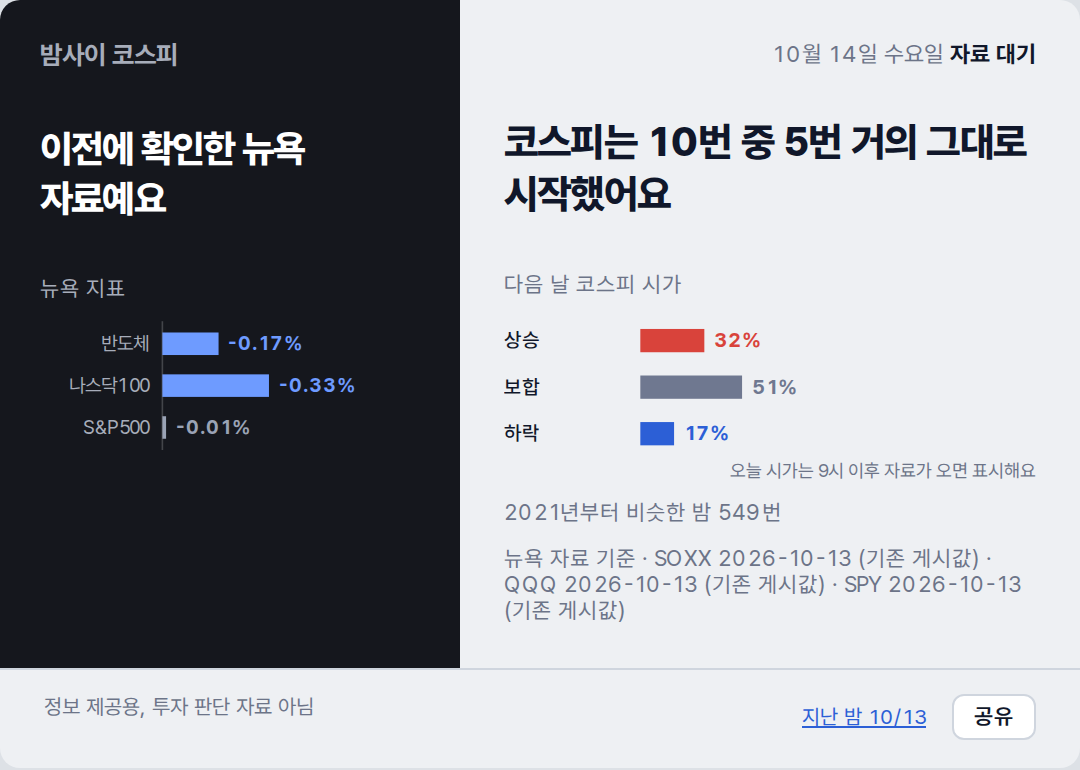
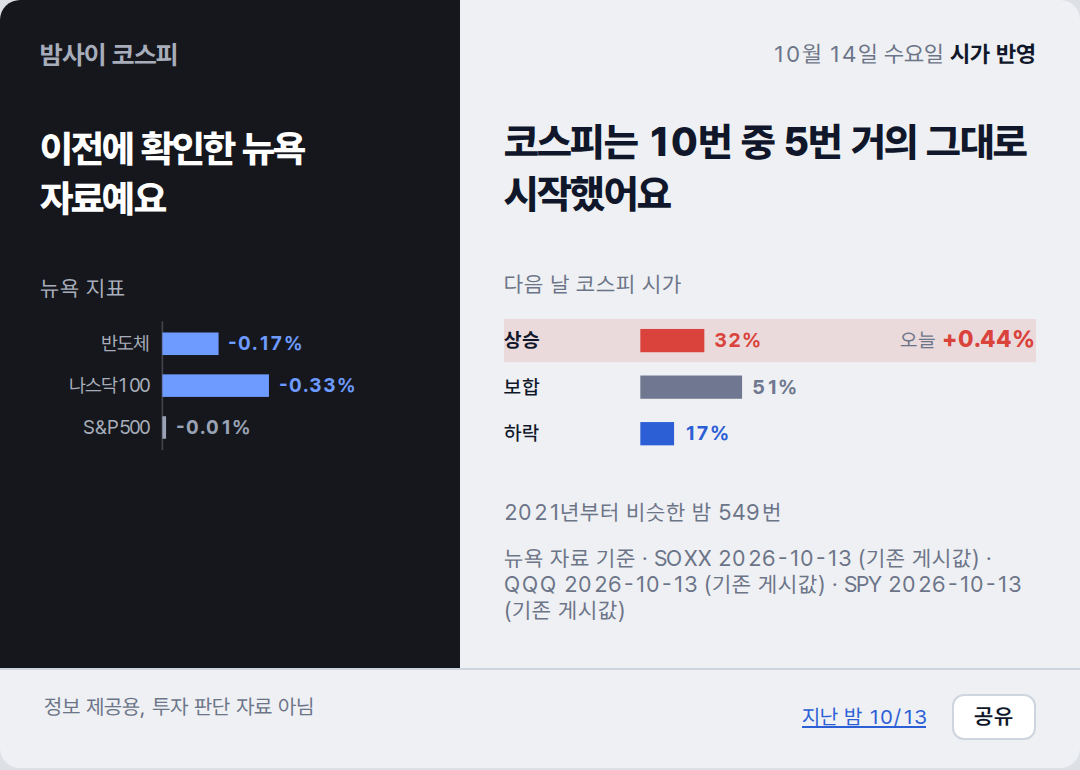
deploy: c0d07a214321b41f7cf333fef670b17ffe5b5852

diff --git a/2026-10-14/index.html b/2026-10-14/index.html
@@ -38,17 +38,18 @@ footer a{color:#2C5FD6}
 <rect x="76" y="61" width="2.3" height="14" fill="var(--flat)"/>
 <text x="84.3" y="72" fill="var(--flat)" font-weight="700">-0.01%</text>
 </svg></section>
-<section class="day"><p class="stamp">10월 14일 수요일 <b>자료 대기</b></p><p class="claim">코스피는 10번 중 5번 거의 그대로 시작했어요</p><p class="lab">다음 날 코스피 시가</p><svg viewBox="0 0 320 100" xmlns="http://www.w3.org/2000/svg" font-family="var(--sans)" font-size="12">
-<text x="0" y="20" fill="var(--ink)" font-weight="500">상승</text>
+<section class="day"><p class="stamp">10월 14일 수요일 <b>시가 반영</b></p><p class="claim">코스피는 10번 중 5번 거의 그대로 시작했어요</p><p class="lab">다음 날 코스피 시가</p><svg viewBox="0 0 320 100" xmlns="http://www.w3.org/2000/svg" font-family="var(--sans)" font-size="12">
+<rect x="0" y="3" width="320" height="26" fill="var(--up)" opacity=".12"/>
+<text x="0" y="20" fill="var(--ink)" font-weight="700">상승</text>
 <rect x="82" y="9" width="38.5" height="14" fill="var(--up)"/>
 <text x="126.5" y="20" fill="var(--up)" font-weight="700">32%</text>
+<text x="320" y="20" text-anchor="end" fill="var(--ink)"><tspan fill="var(--muted)">오늘 </tspan><tspan font-weight="800" font-size="14" fill="var(--up)">+0.44%</tspan></text>
 <text x="0" y="48" fill="var(--ink)" font-weight="500">보합</text>
 <rect x="82" y="37" width="61.2" height="14" fill="var(--flat)"/>
 <text x="149.2" y="48" fill="var(--flat)" font-weight="700">51%</text>
 <text x="0" y="76" fill="var(--ink)" font-weight="500">하락</text>
 <rect x="82" y="65" width="20.3" height="14" fill="var(--down)"/>
 <text x="108.3" y="76" fill="var(--down)" font-weight="700">17%</text>
-<text x="320" y="98" text-anchor="end" fill="var(--muted)" font-size="11">오늘 시가는 9시 이후 자료가 오면 표시해요</text>
 </svg><p class="cap">2021년부터 비슷한 밤 549번</p><p class="cap">뉴욕 자료 기준 · SOXX 2026-10-13 (기존 게시값) · QQQ 2026-10-13 (기존 게시값) · SPY 2026-10-13 (기존 게시값)</p></section>
 <footer><span>정보 제공용, 투자 판단 자료 아님</span><span style="white-space:nowrap"><a href="../2026-10-13/">지난 밤 10/13</a> <button class="share" type="button">공유</button></span></footer>
 <script>

diff --git a/index.html b/index.html
@@ -38,17 +38,18 @@ footer a{color:#2C5FD6}
 <rect x="76" y="61" width="2.3" height="14" fill="var(--flat)"/>
 <text x="84.3" y="72" fill="var(--flat)" font-weight="700">-0.01%</text>
 </svg></section>
-<section class="day"><p class="stamp">10월 14일 수요일 <b>자료 대기</b></p><p class="claim">코스피는 10번 중 5번 거의 그대로 시작했어요</p><p class="lab">다음 날 코스피 시가</p><svg viewBox="0 0 320 100" xmlns="http://www.w3.org/2000/svg" font-family="var(--sans)" font-size="12">
-<text x="0" y="20" fill="var(--ink)" font-weight="500">상승</text>
+<section class="day"><p class="stamp">10월 14일 수요일 <b>시가 반영</b></p><p class="claim">코스피는 10번 중 5번 거의 그대로 시작했어요</p><p class="lab">다음 날 코스피 시가</p><svg viewBox="0 0 320 100" xmlns="http://www.w3.org/2000/svg" font-family="var(--sans)" font-size="12">
+<rect x="0" y="3" width="320" height="26" fill="var(--up)" opacity=".12"/>
+<text x="0" y="20" fill="var(--ink)" font-weight="700">상승</text>
 <rect x="82" y="9" width="38.5" height="14" fill="var(--up)"/>
 <text x="126.5" y="20" fill="var(--up)" font-weight="700">32%</text>
+<text x="320" y="20" text-anchor="end" fill="var(--ink)"><tspan fill="var(--muted)">오늘 </tspan><tspan font-weight="800" font-size="14" fill="var(--up)">+0.44%</tspan></text>
 <text x="0" y="48" fill="var(--ink)" font-weight="500">보합</text>
 <rect x="82" y="37" width="61.2" height="14" fill="var(--flat)"/>
 <text x="149.2" y="48" fill="var(--flat)" font-weight="700">51%</text>
 <text x="0" y="76" fill="var(--ink)" font-weight="500">하락</text>
 <rect x="82" y="65" width="20.3" height="14" fill="var(--down)"/>
 <text x="108.3" y="76" fill="var(--down)" font-weight="700">17%</text>
-<text x="320" y="98" text-anchor="end" fill="var(--muted)" font-size="11">오늘 시가는 9시 이후 자료가 오면 표시해요</text>
 </svg><p class="cap">2021년부터 비슷한 밤 549번</p><p class="cap">뉴욕 자료 기준 · SOXX 2026-10-13 (기존 게시값) · QQQ 2026-10-13 (기존 게시값) · SPY 2026-10-13 (기존 게시값)</p></section>
 <footer><span>정보 제공용, 투자 판단 자료 아님</span><span style="white-space:nowrap"><a href="./2026-10-13/">지난 밤 10/13</a> <button class="share" type="button">공유</button></span></footer>
 <script>
